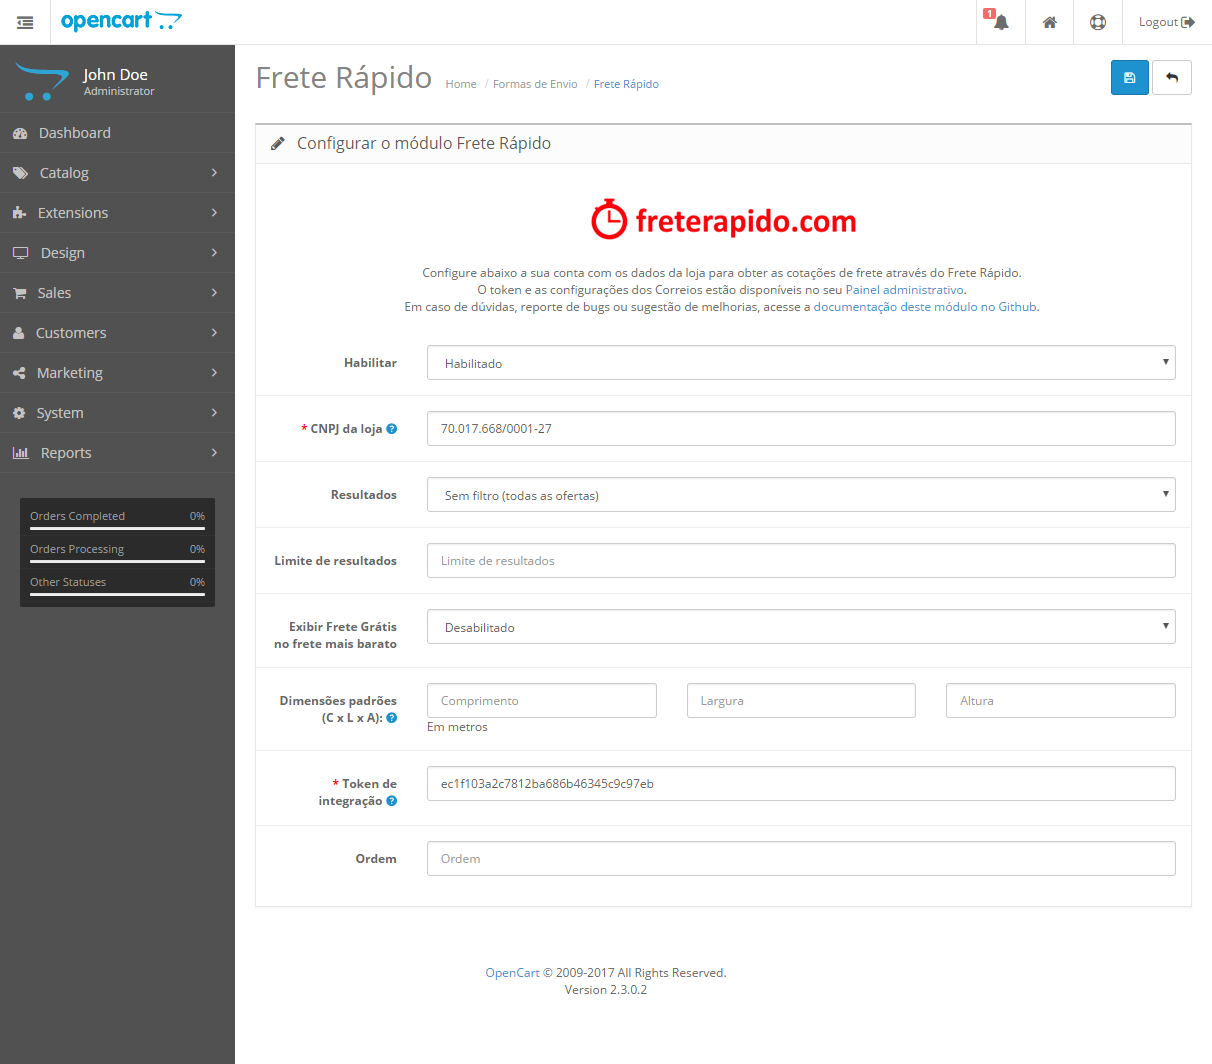
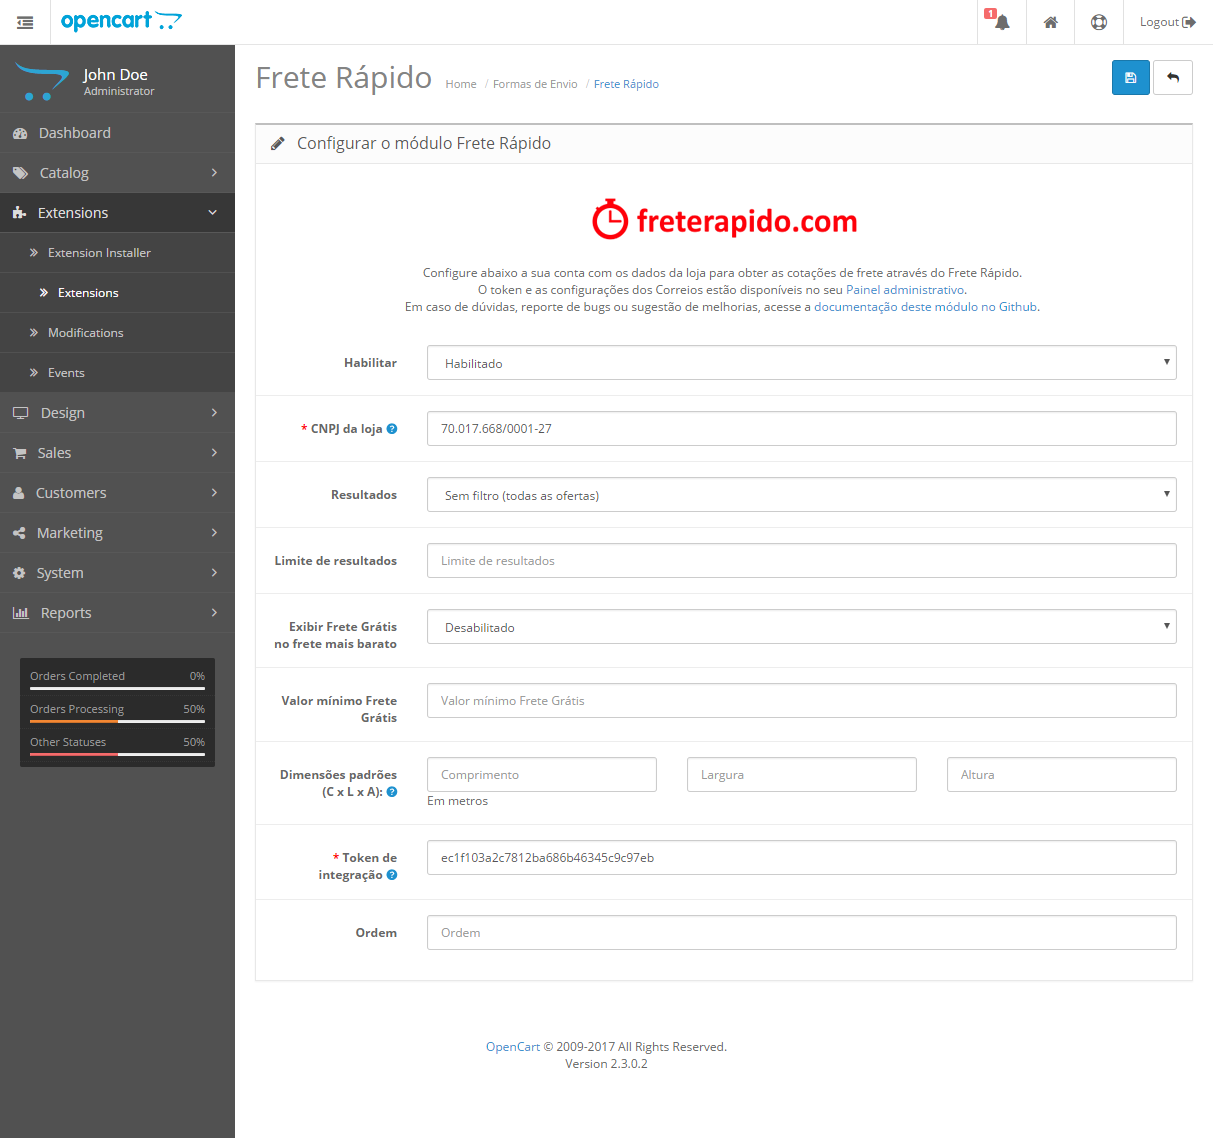
novo parâmetro na config do módulo

diff --git a/README.md b/README.md
@@ -6,7 +6,7 @@
 
 ### **Módulo para plataforma OpenCart**
 
-Versão do módulo: 1.0.1
+Versão do módulo: 1.0.2
 
 Compatibilidade com OpenCart: **2.3.x**
 
@@ -58,6 +58,7 @@ Links úteis:
 - **Resultados:** Define como deseja receber as cotações.
 - **Limite de resultados:** Define a quantidade máxima de cotações que deseja obter.
 - **Exibir Frete Grátis no frete mais barato:** Apresenta para o cliente da loja o frete mais barato como **Frete Grátis**.
+- **Valor Mínimo Frete Grátis:**  Define o valor mínimo para ativar a regra de **Frete grátis**. Para valor **indefinido**, informe **0**.
 - **Dimensões padrões (C x L x A):** Permite informar dimensões padrões de encomendas, geralmente usado quando se tem um único tipo de encomenda.
 - **Token de integração:** Token de integração da sua empresa disponível no [Painel administrativo do Frete Rápido][2] > Empresa > Integração.
 - **Ordem:** Ordem do plugin na sua loja.
